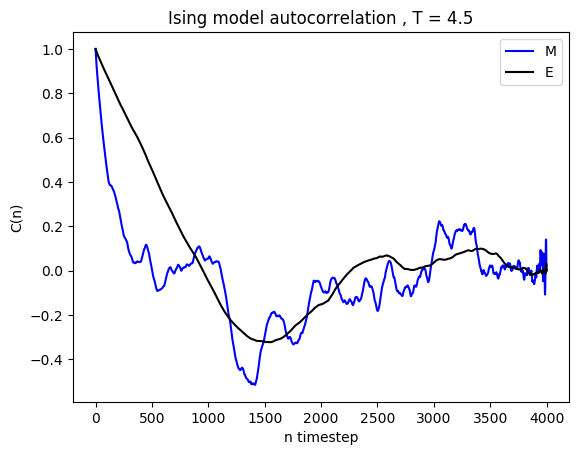
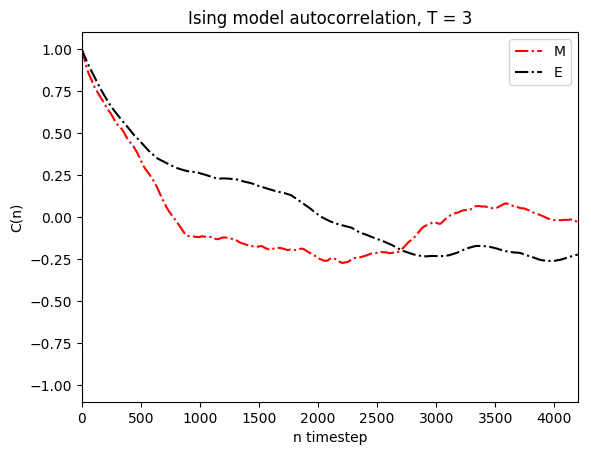
cleaned up autocorrelation a bit

diff --git a/Ising/Ising.py b/Ising/Ising.py
@@ -1245,15 +1245,15 @@ def CalcAutocorrelation(T):
 		#De her ting TROR jeg skal bruges til alle metoderne, så dem laver vi bare
 		#Dette er averages OVER ALL TIMES
 		#Energy
-		Earrayavg = np.average(Earray)
-		E2arrayavg = np.average(E2array)
+		Earrayavg = np.sum(Earray)/len(Earray)
+		E2arrayavg = np.sum(E2array)/len(E2array)
 		EX0 = E2arrayavg - Earrayavg*Earrayavg
 		
 		
 		
 		#Magnetization
-		Marrayavg = np.average(Marray)
-		M2arrayavg = np.average(M2array)
+		Marrayavg = np.sum(Marray)/len(Marray)
+		M2arrayavg = np.sum(M2array)/len(Marray)
 		MX0 = M2arrayavg - Marrayavg*Marrayavg
 		
 		
@@ -1264,8 +1264,8 @@ def CalcAutocorrelation(T):
 		
 		#method 2
 		#http://www.itl.nist.gov/div898/handbook/eda/section3/eda35c.htm
-		Mdenom = np.sum((Marray-Marrayavg)**2)
-		Edenom = np.sum((Earray-Earrayavg)**2)
+		Mdenom = np.sum((Marray-Marrayavg)*(Marray-Marrayavg))
+		Edenom = np.sum((Earray-Earrayavg)*(Earray-Earrayavg))
 		
 		#for i in range(nautotimes):
 			#denom += (Marrayavg
@@ -1347,7 +1347,6 @@ def CalcAutocorrelation(T):
 		#print(C300Method4)
 		
 		#method 5 cluster.pdf
-		
 		O2avg = np.average((Marray-Marrayavg)*(Marray-Marrayavg))
 		O2Eavg = np.average((Earray-Earrayavg)*(Earray-Earrayavg))
 		for t in range(tmax-1):
@@ -1372,21 +1371,26 @@ def CalcAutocorrelation(T):
 		#for i in range(nautotimes):
 			#denom += (Marrayavg
 		
-		for j in range(tmax):
+		for t in range(tmax-1):
 			#M1M2 = 0
 			#E1E2 = 0
 			#for i in range(nautotimes-k):
 				#M1M2 += Marray[i]*Marray[i+k]
 				#E1E2 += Earray[i]*Earray[i+k]
-			Mnume = np.sum((Marray[:tmax-j]-Marrayavg)*(Marray[j:tmax]-Marrayavg))
-			Enume = np.sum((Earray[:tmax-j]-Earrayavg)*(Earray[j:tmax]-Earrayavg))
+			#j = j+1
+			
+			#Vent her... Jeg skal jo passe på jeg ikke bruge samme data points, tror jeg...
+			#
+			Mnume = np.sum((Marray[:tmax-t]-Marrayavg)*(Marray[t:tmax]-Marrayavg))
+			Enume = np.sum((Earray[:tmax-t]-Earrayavg)*(Earray[t:tmax]-Earrayavg))
 			#M1M2 *= 1/(nautotimes-j-1)
 			#E1E2 *= 1/(nautotimes-j-1)
-			Mdenom = np.sum((Marray[:tmax-j]-Marrayavg)**2)
-			Edenom = np.sum((Earray[:tmax-j]-Earrayavg)**2)
+			Mdenom = np.sum((Marray[:tmax-t]-Marrayavg)**2)
+			Edenom = np.sum((Earray[:tmax-t]-Earrayavg)**2)
 			
-			CEts6[j,nt] = Enume/Edenom
-			CMts6[j,nt] = Mnume/Mdenom
+			#j = j-1
+			CEts6[t,nt] = Enume/Edenom
+			CMts6[t,nt] = Mnume/Mdenom
 			
 		#method 7 cs2009.pdf
 		for j in range(tmax):
@@ -1413,9 +1417,85 @@ def CalcAutocorrelation(T):
 				CMts7[j,nt] = Mnume/Mdenom
 			except:
 				print(j)
+				
+		#method 8
+		#CEts8[:,nt] = autocorrelation(Earray)
+		#CMts8[:,nt] = autocorrelation(Marray)
+		
+		#method 9
+		#CEts8[:,nt] = autocorr(Earray,k+1)
+		#CMts8[:,nt] = autocorr(Marray,k+1)
+		
+		#method 10
+		#CEts8[:,nt] = acf(Earray,k+1)
+		#CMts8[:,nt] = acf(Marray,k+1)
+		
+		
+		#method 11
+		#CEts8[:,nt] = acf2(Earray)
+		#CMts8[:,nt] = acf2(Marray)
+		
+		#method 12
+		CEts8[:,nt] = estimated_autocorrelation(Earray)
+		CMts8[:,nt] = estimated_autocorrelation(Marray)
+		
+		
+		#method 12
+		CEts9[:,nt] = autocorr2(Earray)
+		CMts9[:,nt] = autocorr2(Marray)
 		
 	return
+	
+def estimated_autocorrelation(x):
+    """
+    http://stackoverflow.com/q/14297012/190597
+    http://en.wikipedia.org/wiki/Autocorrelation#Estimation
+    """
+    n = len(x)
+    variance = x.var()
+    x = x-x.mean()
+    r = np.correlate(x, x, mode = 'full')[-n:]
+    #assert np.allclose(r, np.array([(x[:n-k]*x[-(n-k):]).sum() for k in range(n)]))
+    result = r/(variance*(np.arange(n, 0, -1)))
+    return result
+	
+# def acf2(series):
+	# """
+	# tror den her vil have pandas series
+	# """
+    # n = len(series)
+    # data = np.asarray(series)
+    # mean = np.mean(data)
+    # c0 = np.sum((data - mean)**2)/n
 
+    # def r(h):
+        # acf_lag = ((data[:n - h] - mean)*(data[h:] - mean)).sum()/n/c0
+        # return round(acf_lag, 3)
+    # x = np.arange(n) # Avoiding lag 0 calculation
+    # acf_coeffs = map(r, x)
+    # return acf_coeffs
+
+def autocorr2(x):
+    result = np.correlate(x, x, mode='full')
+    return result[int(result.size/2):]	
+	
+def autocorr(x, t=1):
+	arrayreturn = np.corrcoef(np.array([x[0:len(x)-t], x[t:len(x)]]))
+	return arrayreturn
+	
+#def acf(x, length=20):
+    #return np.array([1]+[np.corrcoef([x:-i], x[i:])[0,1] for i in range(1, length)])
+
+def autocorrelation(x):
+	"""
+	Compute the autocorrelation of the signal, based on the properties of the
+	power spectral density of the signal.
+	"""
+	xp = x-np.mean(x)
+	f = np.fft.fft(xp)
+	p = np.array([np.real(v)**2+np.imag(v)**2 for v in f])
+	pi = np.fft.ifft(p)
+	return np.real(pi)[:x.size/2]/np.sum(xp**2)
 
 def PlotValues():
 	
@@ -1455,7 +1535,8 @@ def PlotValues():
 def PlotAutocorrelation():
 	fig6 = plt.figure(6)
 	tshere = [j for j in range(tmax)]
-	end = tmax-1
+	#Either use tmax/3 or tmax*0.7
+	end = int(tmax*0.7)
 	plt.axis([0,end,-1.1,1.1])
 	plt.plot(tshere[:end],CMts2[:end,Nt-1], color="red",linestyle="-.")
 	plt.plot(tshere[:end],CEts2[:end,Nt-1], color="black",linestyle="-.")
@@ -1463,18 +1544,25 @@ def PlotAutocorrelation():
 	#plt.plot(tshere[:end],CMts3[:end,Nt-1], color="red",linestyle="-")
 	#plt.plot(tshere[:end],CEts3[:end,Nt-1], color="black",linestyle="-")
 	
-	plt.plot(tshere[:end],CMts4[:end,Nt-1], color="red",linestyle="--")
-	plt.plot(tshere[:end],CEts4[:end,Nt-1], color="black",linestyle="--")
+	#plt.plot(tshere[:end],CMts4[:end,Nt-1], color="black",linestyle="--")
+	#plt.plot(tshere[:end],CEts4[:end,Nt-1], color="black",linestyle="--")
 	
-	plt.plot(tshere[:end],CMts5[:end,Nt-1], color="red",linestyle=":")
-	plt.plot(tshere[:end],CEts5[:end,Nt-1], color="black",linestyle=":")
+	#plt.plot(tshere[:end],CMts5[:end,Nt-1]+0.01, color="blue",linestyle="-")
+	#plt.plot(tshere[:end],CEts5[:end,Nt-1], color="black",linestyle=":")
 	
-	plt.plot(tshere[:end],CMts6[:end,Nt-1], color="green",linestyle=":")
-	plt.plot(tshere[:end],CEts6[:end,Nt-1], color="blue",linestyle=":")
+	#plt.plot(tshere[:end],CMts6[:end,Nt-1], color="green",linestyle=":")
+	#plt.plot(tshere[:end],CEts6[:end,Nt-1], color="blue",linestyle=":")
 	
-	plt.plot(tshere[:end],CMts7[:end,Nt-1], color="green",linestyle="-")
-	plt.plot(tshere[:end],CEts7[:end,Nt-1], color="blue",linestyle="-")
+	#plt.plot(tshere[:end],CMts7[:end,Nt-1], color="yellow",linestyle="-")
+	#plt.plot(tshere[:end],CEts7[:end,Nt-1], color="blue",linestyle="-")
 	
+	#plt.plot(tshere[:end],CMts8[:end,Nt-1], color="purple",linestyle="--")
+	#plt.plot(tshere[:end],CEts8[:end,Nt-1], color="blue",linestyle="-.")
+	
+	#plt.plot(tshere[:end],CMts9[:end,Nt-1], color="black",linestyle=":")
+	#plt.plot(tshere[:end],CEts9[:end,Nt-1], color="blue",linestyle="-.")
+	
+	plt.legend(["M","E"])
 	#plt.legend(["M2","E2","M4","E4"])
 	#plt.legend(["M2","E2","M3","E3","M4","E4"])
 	plt.title("Ising model autocorrelation, T = {}".format(T))
@@ -1562,7 +1650,7 @@ if __name__ == "__main__":
 	Cvs = []
 	Ts = []
 	
-
+	
 	
 	
 	#1 for save, 0 for no savefig
@@ -1599,11 +1687,20 @@ if __name__ == "__main__":
 	CEts7 = np.zeros((tmax,Nt))
 	CMts7 = np.zeros((tmax,Nt))
 	
+	CEts8 = np.zeros((tmax,Nt))
+	CMts8 = np.zeros((tmax,Nt))
+	
+	CEts9 = np.zeros((tmax,Nt))
+	CMts9 = np.zeros((tmax,Nt))
+	
 	T = 3
 	CalcAutocorrelation(T)
 	#print(CEts)
 	PlotAutocorrelation()
-
+	
+	tauint = 0.5 + np.sum(CEts2[:int(tmax*0.7),Nt-1])
+	print(tauint)
+	
 	# fig6 = plt.figure(6)
 	# tshere = [j for j in range(nautotimes)]
 	# end = nautotimes

diff --git a/README.md b/README.md
@@ -66,7 +66,9 @@ Once the magnetization reaches 0, and the energy reaches it's maximum, we basica
 
 ### Autocorrelation
 To have meaningful average values we need independent and uncorrelated data. Since we change the spin states one site at a time, consecutive states are highly correlated and thus any statistics aswell. Looking at the autocorrelation times we get a sense of how many steps should be between each measurement.
-Two statistics can have different correlation times, so the safer practice is to pick the longest correlation time.
+Two statistics can have different correlation times, so the safer practice is to pick the longest correlation time.  
+For large t values we're calculating a large lag. This also means that the larger lag autocorrelation we calculate, the more error-prone it is, since we'll have fewer points to calculate the autocorrelation from. Hence, first we will see autocorrelation drop off approximately exponentially, but then the lack of 
+measurements will start to create noise in the autocorrelation function, making wild oscillations and peaks etc. So here we cut off the autocorrelation plot at 0.7*tmax, so the noisy tail isn't visible.
 
 ![Autocorrelation.png](https://github.com/mintDan/MonteCarlo/blob/master/figs/Autocorrelation.png) 
 
